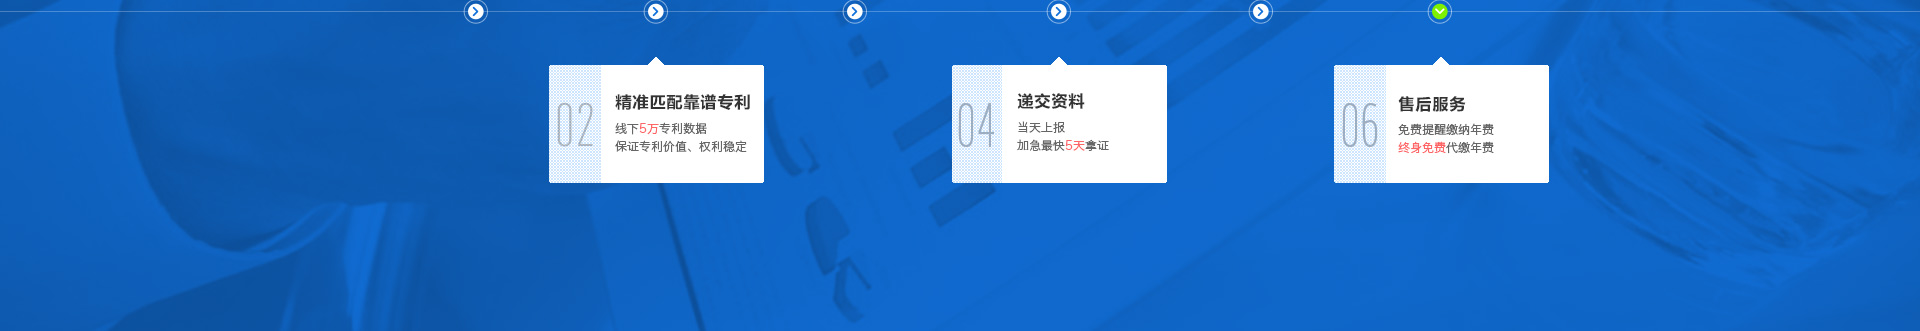
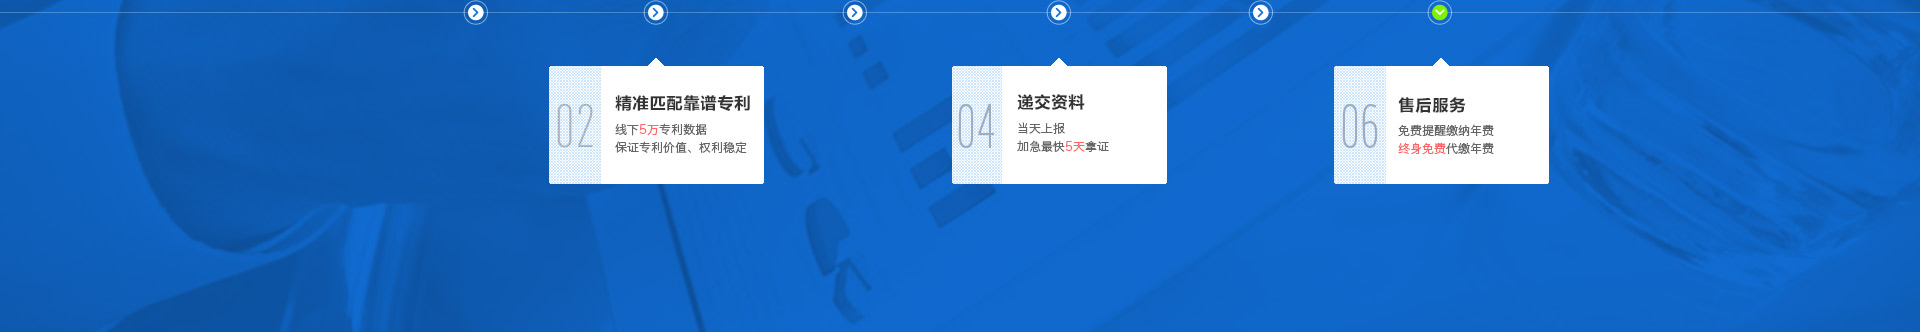
专利专题修改
git-svn-id: http://192.168.0.5/svn/Member/trade/web@9980 8c2d0303-d7d2-0546-a2d7-8b6cbec2f4b4

diff --git a/Static/topic/ptline/css/style.css b/Static/topic/ptline/css/style.css
@@ -49,6 +49,12 @@ body{min-width: 1400px;background-color: #ffffff;}
     margin-left: 14px;
     margin-bottom: 2px;
 }
+.pt-banner2-ma{
+    width: 100%;
+    height: 332px;
+    background: url("../images/pt-banner3.jpg") no-repeat top center;
+    overflow: hidden;
+}
 .pt-banner2 img{
     vertical-align: top;
 }
@@ -57,10 +63,11 @@ body{min-width: 1400px;background-color: #ffffff;}
     height: 720px;
     margin: auto;
     position: relative;
+    overflow: hidden;
 }
 .pt-team img.ax{
     position: absolute;
-    top:5px;
+    top:65px;
     right: 300px;
 }
 .pt-team-pl{

diff --git a/App/View/topic/topic.ptline.html b/App/View/topic/topic.ptline.html
@@ -9,7 +9,9 @@
        <div class="pt-banner2-tit">  
           <h3>独家交易体系<img src="<?=StaticDir?>topic/ptline/images/sx.png"></h3>
        </div>
-      <img src="<?=StaticDir?>topic/ptline/images/pt-banner3.jpg">
+       <div class="pt-banner2-ma">  
+         
+       </div>
   </div>
   <div class="pt-team">
       <img src="<?=StaticDir?>topic/ptline/images/ax.jpg" class="ax">
